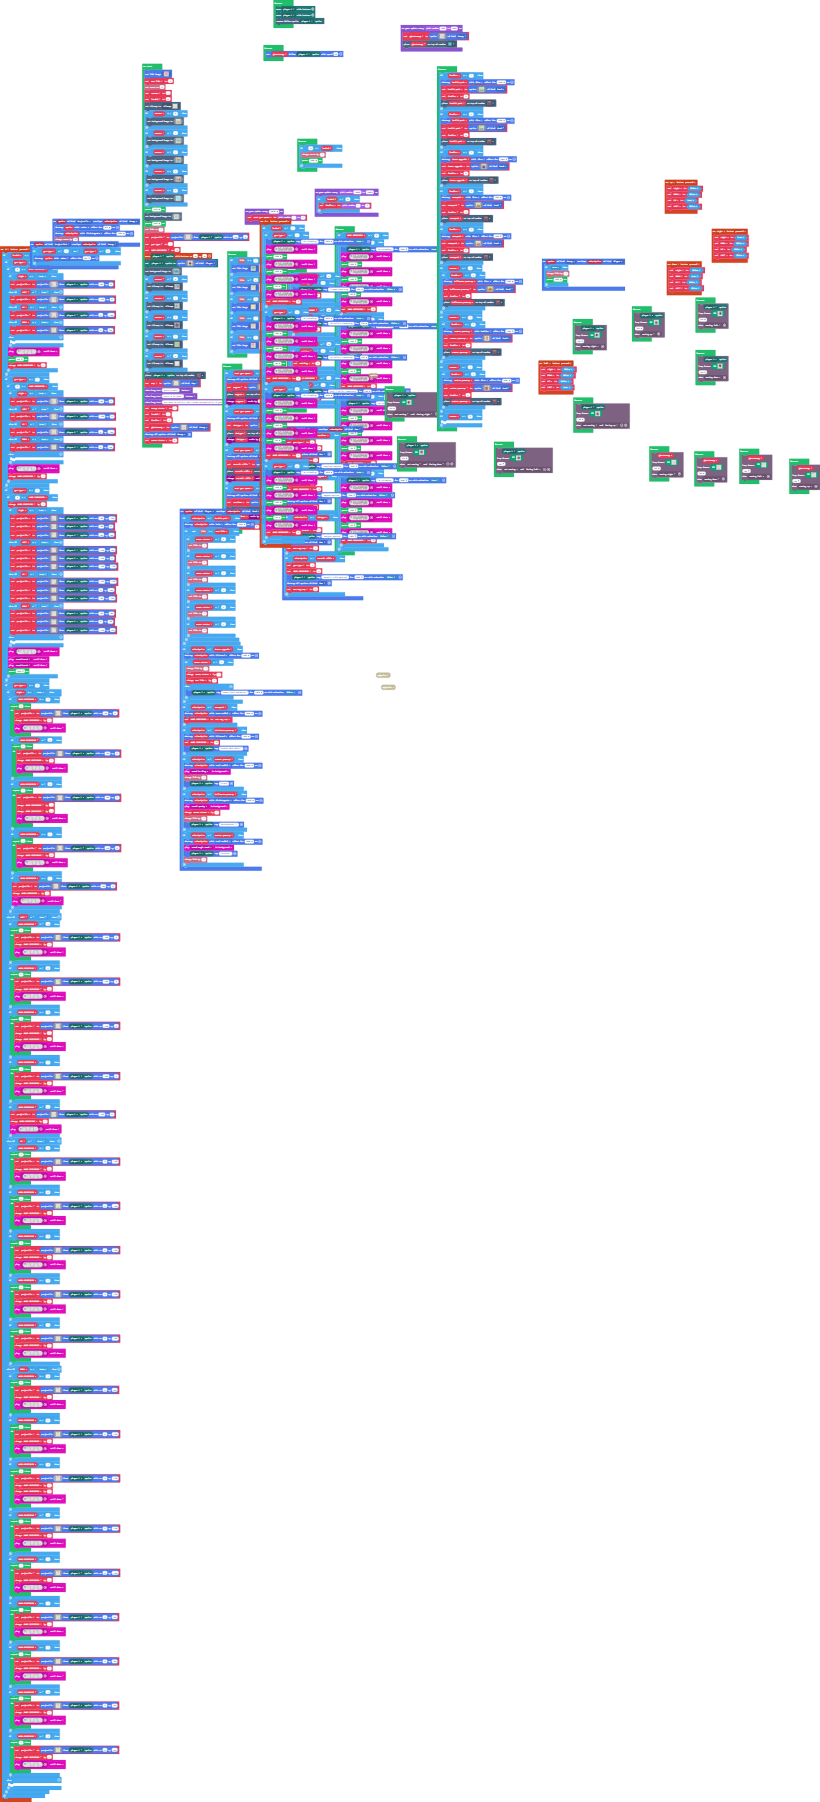
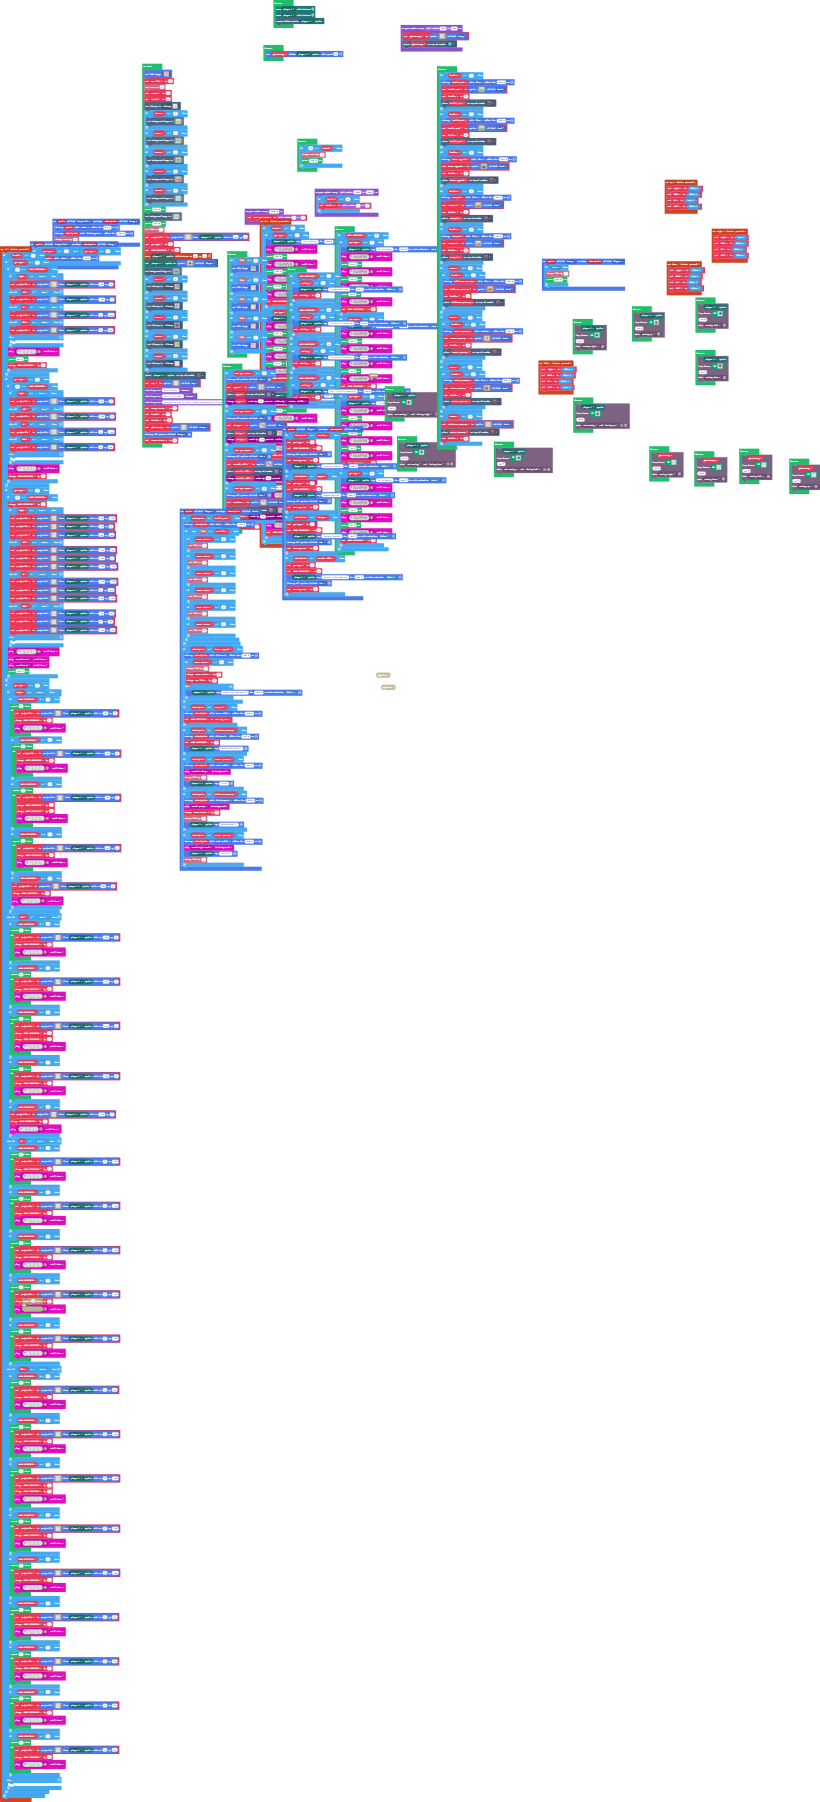
Update main.blocks, main.ts

diff --git a/main.ts b/main.ts
@@ -1104,7 +1104,6 @@ controller.down.onEvent(ControllerButtonEvent.Pressed, function () {
     LEFT = false
 })
 sprites.onOverlap(SpriteKind.Player, SpriteKind.Food, function (sprite, otherSprite) {
-    let christmas_powerup: Sprite = null
     if (otherSprite == health_pack) {
         sprites.destroy(otherSprite, effects.halo, 1000)
         if (!(info.life() > max_life)) {
@@ -1182,6 +1181,7 @@ let waiting = 0
 let easter_powerup: Sprite = null
 let halloween_powerup: Sprite = null
 let summer_powerup: Sprite = null
+let christmas_powerup: Sprite = null
 let ammopack: Sprite = null
 let Armor_upgrade: Sprite = null
 let health_pack: Sprite = null
@@ -2410,7 +2410,26 @@ forever(function () {
         }
     }
     if (season == 4) {
-    	
+        christmas_powerup = sprites.create(img`
+            . . . . . . . . . . . . . . . . 
+            . . . . . . . . . . . . . . . . 
+            . . . . . . . . . . . . . . . . 
+            . . 2 2 1 2 1 2 2 . . . . . . . 
+            . 1 1 2 1 2 1 2 1 . . . . . . . 
+            . 2 2 . . . . 1 2 . . . . . . . 
+            . 1 1 . . . . 2 2 . . . . . . . 
+            . . . . . . . 1 1 . . . . . . . 
+            . . . . . . . 2 2 . . . . . . . 
+            . . . . . . . 1 1 . . . . . . . 
+            . . . . . . . 2 2 . . . . . . . 
+            . . . . . . . 1 1 . . . . . . . 
+            . . . . . . . 2 2 . . . . . . . 
+            . . . . . . . 1 1 . . . . . . . 
+            . . . . . . . 2 2 . . . . . . . 
+            . . . . . . . . . . . . . . . . 
+            `, SpriteKind.Food)
+        tiles.placeOnRandomTile(easter_powerup, sprites.dungeon.chestOpen)
+        foodies = 0
     }
 })
 forever(function () {
